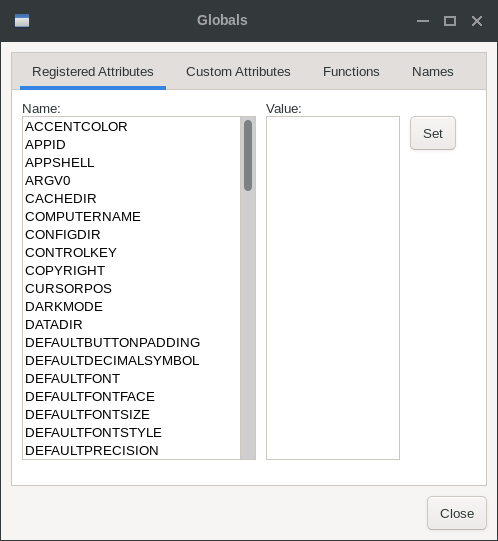
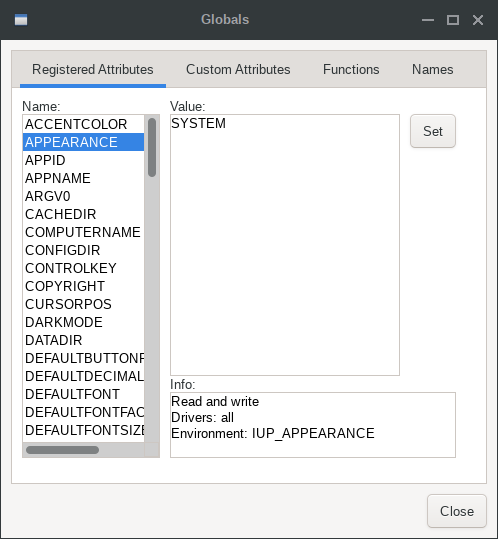
iup: Show the full attribute and global info in the debug dialogs

diff --git a/iup/external/src/iup_classinfo.c b/iup/external/src/iup_classinfo.c
@@ -147,6 +147,60 @@ static char* getCallbackParameters(const char* format)
   return str;
 }
 
+static void iClassInfoAppendFlag(char* str, size_t size, const char* prefix, const char* text)
+{
+  size_t len = strlen(str);
+  snprintf(str + len, size - len, "%s%s%s", len ? "\n" : "", prefix, text);
+}
+
+IUP_SDK_API char* iupClassInfoGetAttribFlags(int flags, const char* prefix)
+{
+  static char str[400];
+  str[0] = 0;
+
+  iClassInfoAppendFlag(str, sizeof(str), prefix, flags & (IUPAF_NO_INHERIT | IUPAF_NO_STRING) ? "Non inheritable" : "Inheritable");
+  if (flags & IUPAF_NO_STRING)
+    iClassInfoAppendFlag(str, sizeof(str), prefix, "Not a string");
+  if (flags & IUPAF_HAS_ID2)
+    iClassInfoAppendFlag(str, sizeof(str), prefix, "Has two ids (lin:col)");
+  else if (flags & IUPAF_HAS_ID)
+    iClassInfoAppendFlag(str, sizeof(str), prefix, "Has id");
+  if (flags & IUPAF_READONLY)
+    iClassInfoAppendFlag(str, sizeof(str), prefix, "Read-only");
+  else if (flags & IUPAF_WRITEONLY)
+    iClassInfoAppendFlag(str, sizeof(str), prefix, "Write-only");
+  if (flags & IUPAF_NOT_MAPPED)
+    iClassInfoAppendFlag(str, sizeof(str), prefix, "Processed before map");
+  if (flags & IUPAF_NO_DEFAULTVALUE)
+    iClassInfoAppendFlag(str, sizeof(str), prefix, "No default value");
+  if (flags & IUPAF_NO_SAVE)
+    iClassInfoAppendFlag(str, sizeof(str), prefix, "Not saved");
+  if (flags & IUPAF_IHANDLENAME)
+    iClassInfoAppendFlag(str, sizeof(str), prefix, "Ihandle* name");
+  if (flags & IUPAF_IHANDLE)
+    iClassInfoAppendFlag(str, sizeof(str), prefix, "Ihandle*");
+  if (flags & IUPAF_NOT_SUPPORTED)
+    iClassInfoAppendFlag(str, sizeof(str), prefix, "NOT SUPPORTED in this driver");
+
+  return str;
+}
+
+IUP_SDK_API char* iupClassInfoGetAttribDefault(Iclass* ic, const char* name)
+{
+  char* def_value = NULL;
+  IupGetClassAttributeInfo(ic->name, name, &def_value, NULL, NULL);
+  if (!def_value)
+    return NULL;
+
+  if (iupClassIsGlobalDefault(def_value, 0))
+  {
+    char* global_value = IupGetGlobal(def_value);
+    return iupStrReturnStrf("%s = %s", def_value, global_value ? global_value : "NULL");
+  }
+
+  return def_value;
+}
+
 /* Update callback labels */
 static int callbacksList_ActionCB (Ihandle* ih, char* callName, int pos, int state)
 {
@@ -183,24 +237,15 @@ static int attributesList_ActionCB (Ihandle* ih, char* attribName, int pos, int 
       char* def_value;
       int flags;
       iupClassGetAttribNameInfo(ic, attribName, &def_value, &flags);
+      def_value = iupClassInfoGetAttribDefault(ic, attribName);
 
       IupSetfAttribute(txtInfo, "VALUE", "Attribute Name: %s\n"
                                          "Default Value: %s\n"
                                          "Flags:\n"
-                                         "%s"
-                                         "%s"
-                                         "%s"
-                                         "%s"
-                                         "%s"
                                          "%s",
                                          attribName,
-                                         def_value==NULL? "NULL": def_value,
-                                         flags&(IUPAF_NO_INHERIT|IUPAF_NO_STRING)? "  NON Inheritable\n": "  Is Inheritable\n",
-                                         flags&IUPAF_NO_STRING? "  NOT a String\n": "",
-                                         flags&IUPAF_HAS_ID? "  Has ID\n": "",
-                                         flags&IUPAF_READONLY? "  Read-Only\n": (flags&IUPAF_WRITEONLY? "  Write-Only\n": ""),
-                                         flags&IUPAF_IHANDLENAME? "  Ihandle* name\n": "",
-                                         flags&IUPAF_NOT_SUPPORTED? "  NOT SUPPORTED in this driver\n": "");
+                                         def_value ? def_value : "NULL",
+                                         iupClassInfoGetAttribFlags(flags, "  "));
     }
     else
       IupSetAttribute(txtInfo, "VALUE", "Custom Attribute");
@@ -245,6 +290,7 @@ IUP_SDK_API void iupClassInfoGetDesc(Iclass* ic, Ihandle* ih, const char* attrib
 
   IupSetfAttribute(ih, attrib_name, "Ihandle* Iup%s(%s);\n"
                    "Class Name: %s\n"
+                   "Parent Class: %s\n"
                    "Native Type: %s\n"
                    "Container Type: %s\n"
                    "Flags:\n"
@@ -253,10 +299,11 @@ IUP_SDK_API void iupClassInfoGetDesc(Iclass* ic, Ihandle* ih, const char* attrib
                    constructor,
                    getClassParameters(ic->format, ic->format_attr),
                    ic->name,
+                   ic->parent ? ic->parent->name : "none",
                    getNativeType(ic->nativetype),
                    getChildType(ic->childtype),
                    ic->is_interactive ? "  Is Keyboard Interactive\n" : "  NOT Keyboard Interactive\n",
-                   ic->has_attrib_id ? "  Has Id Attributes\n" : "");
+                   ic->has_attrib_id == 2 ? "  Has Id and Lin:Col Attributes\n" : (ic->has_attrib_id ? "  Has Id Attributes\n" : ""));
 }
 
 static int classesList_ActionCB (Ihandle* ih, char* className, int pos, int state)

diff --git a/iup/external/src/iup_globalsdlg.c b/iup/external/src/iup_globalsdlg.c
@@ -40,6 +40,56 @@ static int iGlobalsCurrentDriverBit(void)
   return 0;
 }
 
+static void iGlobalsUpdateInfo(Ihandle* info, const char* name)
+{
+  static const struct { int bit; const char* name; } drivers[] = {
+    { IUPDRV_WIN, "Win32" }, { IUPDRV_WINUI, "WinUI" }, { IUPDRV_GTK, "GTK" }, { IUPDRV_GTK4, "GTK4" },
+    { IUPDRV_QT, "Qt" }, { IUPDRV_QML, "QML" }, { IUPDRV_MOTIF, "Motif" }, { IUPDRV_FLTK, "FLTK" },
+    { IUPDRV_EFL, "EFL" }, { IUPDRV_COCOA, "Cocoa" }, { IUPDRV_COCOATOUCH, "CocoaTouch" },
+    { IUPDRV_ANDROID, "Android" }, { IUPDRV_HAIKU, "Haiku" }, { IUPDRV_WASM, "WASM" } };
+  char str[512];
+  size_t len;
+  int flags, driver_bits, i, count = 0;
+
+  if (IupGetGlobalInfo(name, &flags, &driver_bits) != 1)
+  {
+    IupSetAttribute(info, "VALUE", "");
+    return;
+  }
+
+  snprintf(str, sizeof(str), "%s%s\nDrivers: ",
+           flags & IUPGF_READONLY ? "Read-only" : (flags & IUPGF_WRITEONLY ? "Write-only" : "Read and write"),
+           flags & IUPGF_POINTER ? ", pointer" : "");
+  len = strlen(str);
+  for (i = 0; i < (int)(sizeof(drivers) / sizeof(drivers[0])); i++)
+  {
+    if (driver_bits & drivers[i].bit)
+      count++;
+  }
+
+  if (count == (int)(sizeof(drivers) / sizeof(drivers[0])))
+    snprintf(str + len, sizeof(str) - len, "all");
+  else
+  {
+    count = 0;
+    for (i = 0; i < (int)(sizeof(drivers) / sizeof(drivers[0])); i++)
+    {
+      if (driver_bits & drivers[i].bit)
+      {
+        snprintf(str + len, sizeof(str) - len, "%s%s", count ? ", " : "", drivers[i].name);
+        len = strlen(str);
+        count++;
+      }
+    }
+  }
+  len = strlen(str);
+
+  if (iupGlobalIsEnvName(name))
+    snprintf(str + len, sizeof(str) - len, "\nEnvironment: IUP_%s", name);
+
+  IupStoreAttribute(info, "VALUE", str);
+}
+
 static int iGlobalsCompareNames(const void* i1, const void* i2)
 {
   char* name1 = *((char**)i1);
@@ -102,6 +152,7 @@ static void iGlobalsUpdate(Ihandle* dlg)
   IupSetAttribute(setbut1, "VALUE", "");
   IupSetAttribute(colorbut1, "ACTIVE", "No");
   IupSetAttribute(fontbut1, "VISIBLE", "No");
+  IupSetAttribute((Ihandle*)iupAttribGetInherit(list1, "_IUP_ATTINFO"), "VALUE", "");
   IupSetAttribute(list2, "REMOVEITEM", NULL);
   IupSetAttribute(txt2, "VALUE", "");
   IupSetAttribute(setbut2, "VALUE", "");
@@ -175,6 +226,10 @@ static int iGlobalsList_CB(Ihandle* list1, char* name, int item, int state)
     Ihandle* setbut = (Ihandle*)iupAttribGetInherit(list1, "_IUP_SETBUTTON");
     Ihandle* colorbut = (Ihandle*)iupAttribGetInherit(list1, "_IUP_COLORBUTTON");
     Ihandle* fontbut = (Ihandle*)iupAttribGetInherit(list1, "_IUP_FONTBUTTON");
+    Ihandle* info = (Ihandle*)iupAttribGetInherit(list1, "_IUP_ATTINFO");
+
+    if (info)
+      iGlobalsUpdateInfo(info, name);
 
     if (value)
     {
@@ -484,7 +539,7 @@ static int iGlobalsClose_CB(Ihandle* ih)
 static Ihandle* iGlobalsCreateDialog(void)
 {
   Ihandle* list1, *list2, *list3, *list4, *close, *dlg, *dlg_box, *button_box, *colorbut1, *fontbut1, *colorbut2, *fontbut2,
-    *tabs, *box1, *box11, *box12, *box13, *box14, *box2, *box3, *box4, *set1, *set2, *value1, *value2, *value3, *value4;
+    *tabs, *box1, *box11, *box12, *box13, *box14, *box2, *box3, *box4, *set1, *set2, *value1, *value2, *value3, *value4, *info1;
 
   close = IupButton("_@IUP_CLOSE");
   IupSetStrAttribute(close, "PADDING", IupGetGlobal("DEFAULTBUTTONPADDING"));
@@ -572,9 +627,19 @@ static Ihandle* iGlobalsCreateDialog(void)
   IupSetAttribute(value4, "EXPAND", "HORIZONTAL");
   IupSetAttribute(value4, "READONLY", "Yes");
 
+  info1 = IupText();
+  IupSetAttribute(info1, "MULTILINE", "Yes");
+  IupSetAttribute(info1, "READONLY", "Yes");
+  IupSetAttribute(info1, "VISIBLELINES", "4");
+  IupSetAttribute(info1, "SCROLLBAR", "NO");
+  IupSetAttribute(info1, "WORDWRAP", "Yes");
+  IupSetAttribute(info1, "EXPAND", "HORIZONTAL");
+
   box11 = IupVbox(
     IupLabel("Value:"),
     IupSetAttributes(IupHbox(value1, IupSetAttributes(IupVbox(set1, colorbut1, fontbut1, NULL), "GAP=3"), NULL), "GAP=10"),
+    IupLabel("Info:"),
+    info1,
     NULL);
   IupSetAttribute(box11, "MARGIN", "0x0");
   IupSetAttribute(box11, "GAP", "0");
@@ -613,6 +678,7 @@ static Ihandle* iGlobalsCreateDialog(void)
   iupAttribSet(box1, "_IUP_SETBUTTON", (char*)set1);
   iupAttribSet(box1, "_IUP_COLORBUTTON", (char*)colorbut1);
   iupAttribSet(box1, "_IUP_FONTBUTTON", (char*)fontbut1);
+  iupAttribSet(box1, "_IUP_ATTINFO", (char*)info1);
 
   box2 = IupHbox(IupSetAttributes(IupVbox(IupLabel("Name:"), list2, NULL), "MARGIN=0x0, GAP=0"), box12, NULL);
   iupAttribSet(box2, "_IUP_PROPLIST", (char*)list2);

diff --git a/iup/external/src/iup_elempropdlg.c b/iup/external/src/iup_elempropdlg.c
@@ -457,17 +457,13 @@ static int iLayoutPropertiesList1_CB(Ihandle* list1, char* name, int item, int s
     else
       IupSetAttribute(txt1, "VALUE", "NULL");
 
+    def_value = iupClassInfoGetAttribDefault(elem->iclass, name);
     if (def_value)
       IupStoreAttribute(lbl2, "TITLE", def_value);
     else
       IupSetAttribute(lbl2, "TITLE", "NULL");
 
-    IupSetfAttribute(lbl3, "TITLE", "%s\n%s%s%s%s%s", flags&(IUPAF_NO_INHERIT | IUPAF_NO_STRING) ? "NON Inheritable" : "Inheritable",
-                     flags&IUPAF_NO_STRING ? "NOT a String\n" : "",
-                     flags&IUPAF_HAS_ID ? "Has ID\n" : "",
-                     flags&IUPAF_READONLY ? "Read-Only\n" : (flags&IUPAF_WRITEONLY ? "Write-Only\n" : ""),
-                     flags&IUPAF_IHANDLENAME ? "Ihandle* name\n" : "",
-                     flags&IUPAF_NOT_SUPPORTED ? "NOT SUPPORTED in this driver" : "");
+    IupStoreAttribute(lbl3, "TITLE", iupClassInfoGetAttribFlags(flags, ""));
 
     if (!(flags&IUPAF_READONLY) &&
         !(flags&IUPAF_NO_STRING))
@@ -496,7 +492,7 @@ static int iLayoutPropertiesList1_CB(Ihandle* list1, char* name, int item, int s
       IupSetAttribute(fontbut, "VISIBLE", "No");
     }
 
-    if (flags&IUPAF_HAS_ID)
+    if (flags & (IUPAF_HAS_ID | IUPAF_HAS_ID2))
     {
       IupSetAttribute(id_text, "ACTIVE", "Yes");
       IupSetAttribute(id_label, "ACTIVE", "Yes");

diff --git a/iup/external/src/iup_class.h b/iup/external/src/iup_class.h
@@ -448,6 +448,8 @@ int iupClassIsGlobalDefault(const char* name, int colors);
 
 IUP_SDK_API void iupClassInfoGetDesc(Iclass* ic, Ihandle* ih, const char* attrib_name);
 IUP_SDK_API void iupClassInfoShowHelp(const char* className);
+IUP_SDK_API char* iupClassInfoGetAttribFlags(int flags, const char* prefix);
+IUP_SDK_API char* iupClassInfoGetAttribDefault(Iclass* ic, const char* name);
 
 /* Other functions declared in <iup.h> and implemented here. 
 IupGetClassType

diff --git a/iup/external/src/iup_globalattrib.c b/iup/external/src/iup_globalattrib.c
@@ -55,6 +55,17 @@ static const char* iGlobalGetEnv(const char* name)
   return NULL;
 }
 
+int iupGlobalIsEnvName(const char* name)
+{
+  int i;
+  for (i = 0; iglobal_env_names[i]; i++)
+  {
+    if (iupStrEqual(name, iglobal_env_names[i]))
+      return 1;
+  }
+  return 0;
+}
+
 void iupGlobalSetFromEnv(int opened)
 {
   int i;

diff --git a/iup/external/src/iup_globalattrib.h b/iup/external/src/iup_globalattrib.h
@@ -15,6 +15,7 @@ extern "C" {
 /* called only in IupOpen and IupClose */
 void iupGlobalAttribInit(void);
 void iupGlobalSetFromEnv(int opened);
+int iupGlobalIsEnvName(const char* name);
 void iupGlobalAttribFinish(void);
 
 IUP_SDK_API int iupGlobalIsPointer(const char* name);

diff --git a/docs/dlg/iup_globalsdialog.md b/docs/dlg/iup_globalsdialog.md
@@ -8,6 +8,7 @@ This dialog is intended for developers, to see and inspect their globals.
 
 It contains 4 Tab sections: one for the registered global attributes, one for custom global attributes set by the application, one for the global functions and one for the global names.
 The functions and names are just for inspection, and custom attributes should be handled carefully because they may be not strings.
+For a registered global attribute, the Info box shows whether it is read-only, write-only or a pointer, the drivers that support it, and its IUP_*name* environment variable when there is one.
 
 ### Creation
 

diff --git a/docs/dlg/iup_elementpropdialog.md b/docs/dlg/iup_elementpropdialog.md
@@ -12,6 +12,7 @@ This dialog is intended for developers, to see and inspect their elements.
 It contains 3 Tab sections: one for the registered attributes of the element, one for custom attributes set by the application, and one for the callbacks.
 The callbacks are just for inspection, and custom attributes should be handled carefully because they may be not strings.
 Registered attributes values are shown in red when they were changed by the application.
+A default value that follows a global attribute, such as DLGFGCOLOR, is shown with the current value of that global.
 
 ### Creation
 
